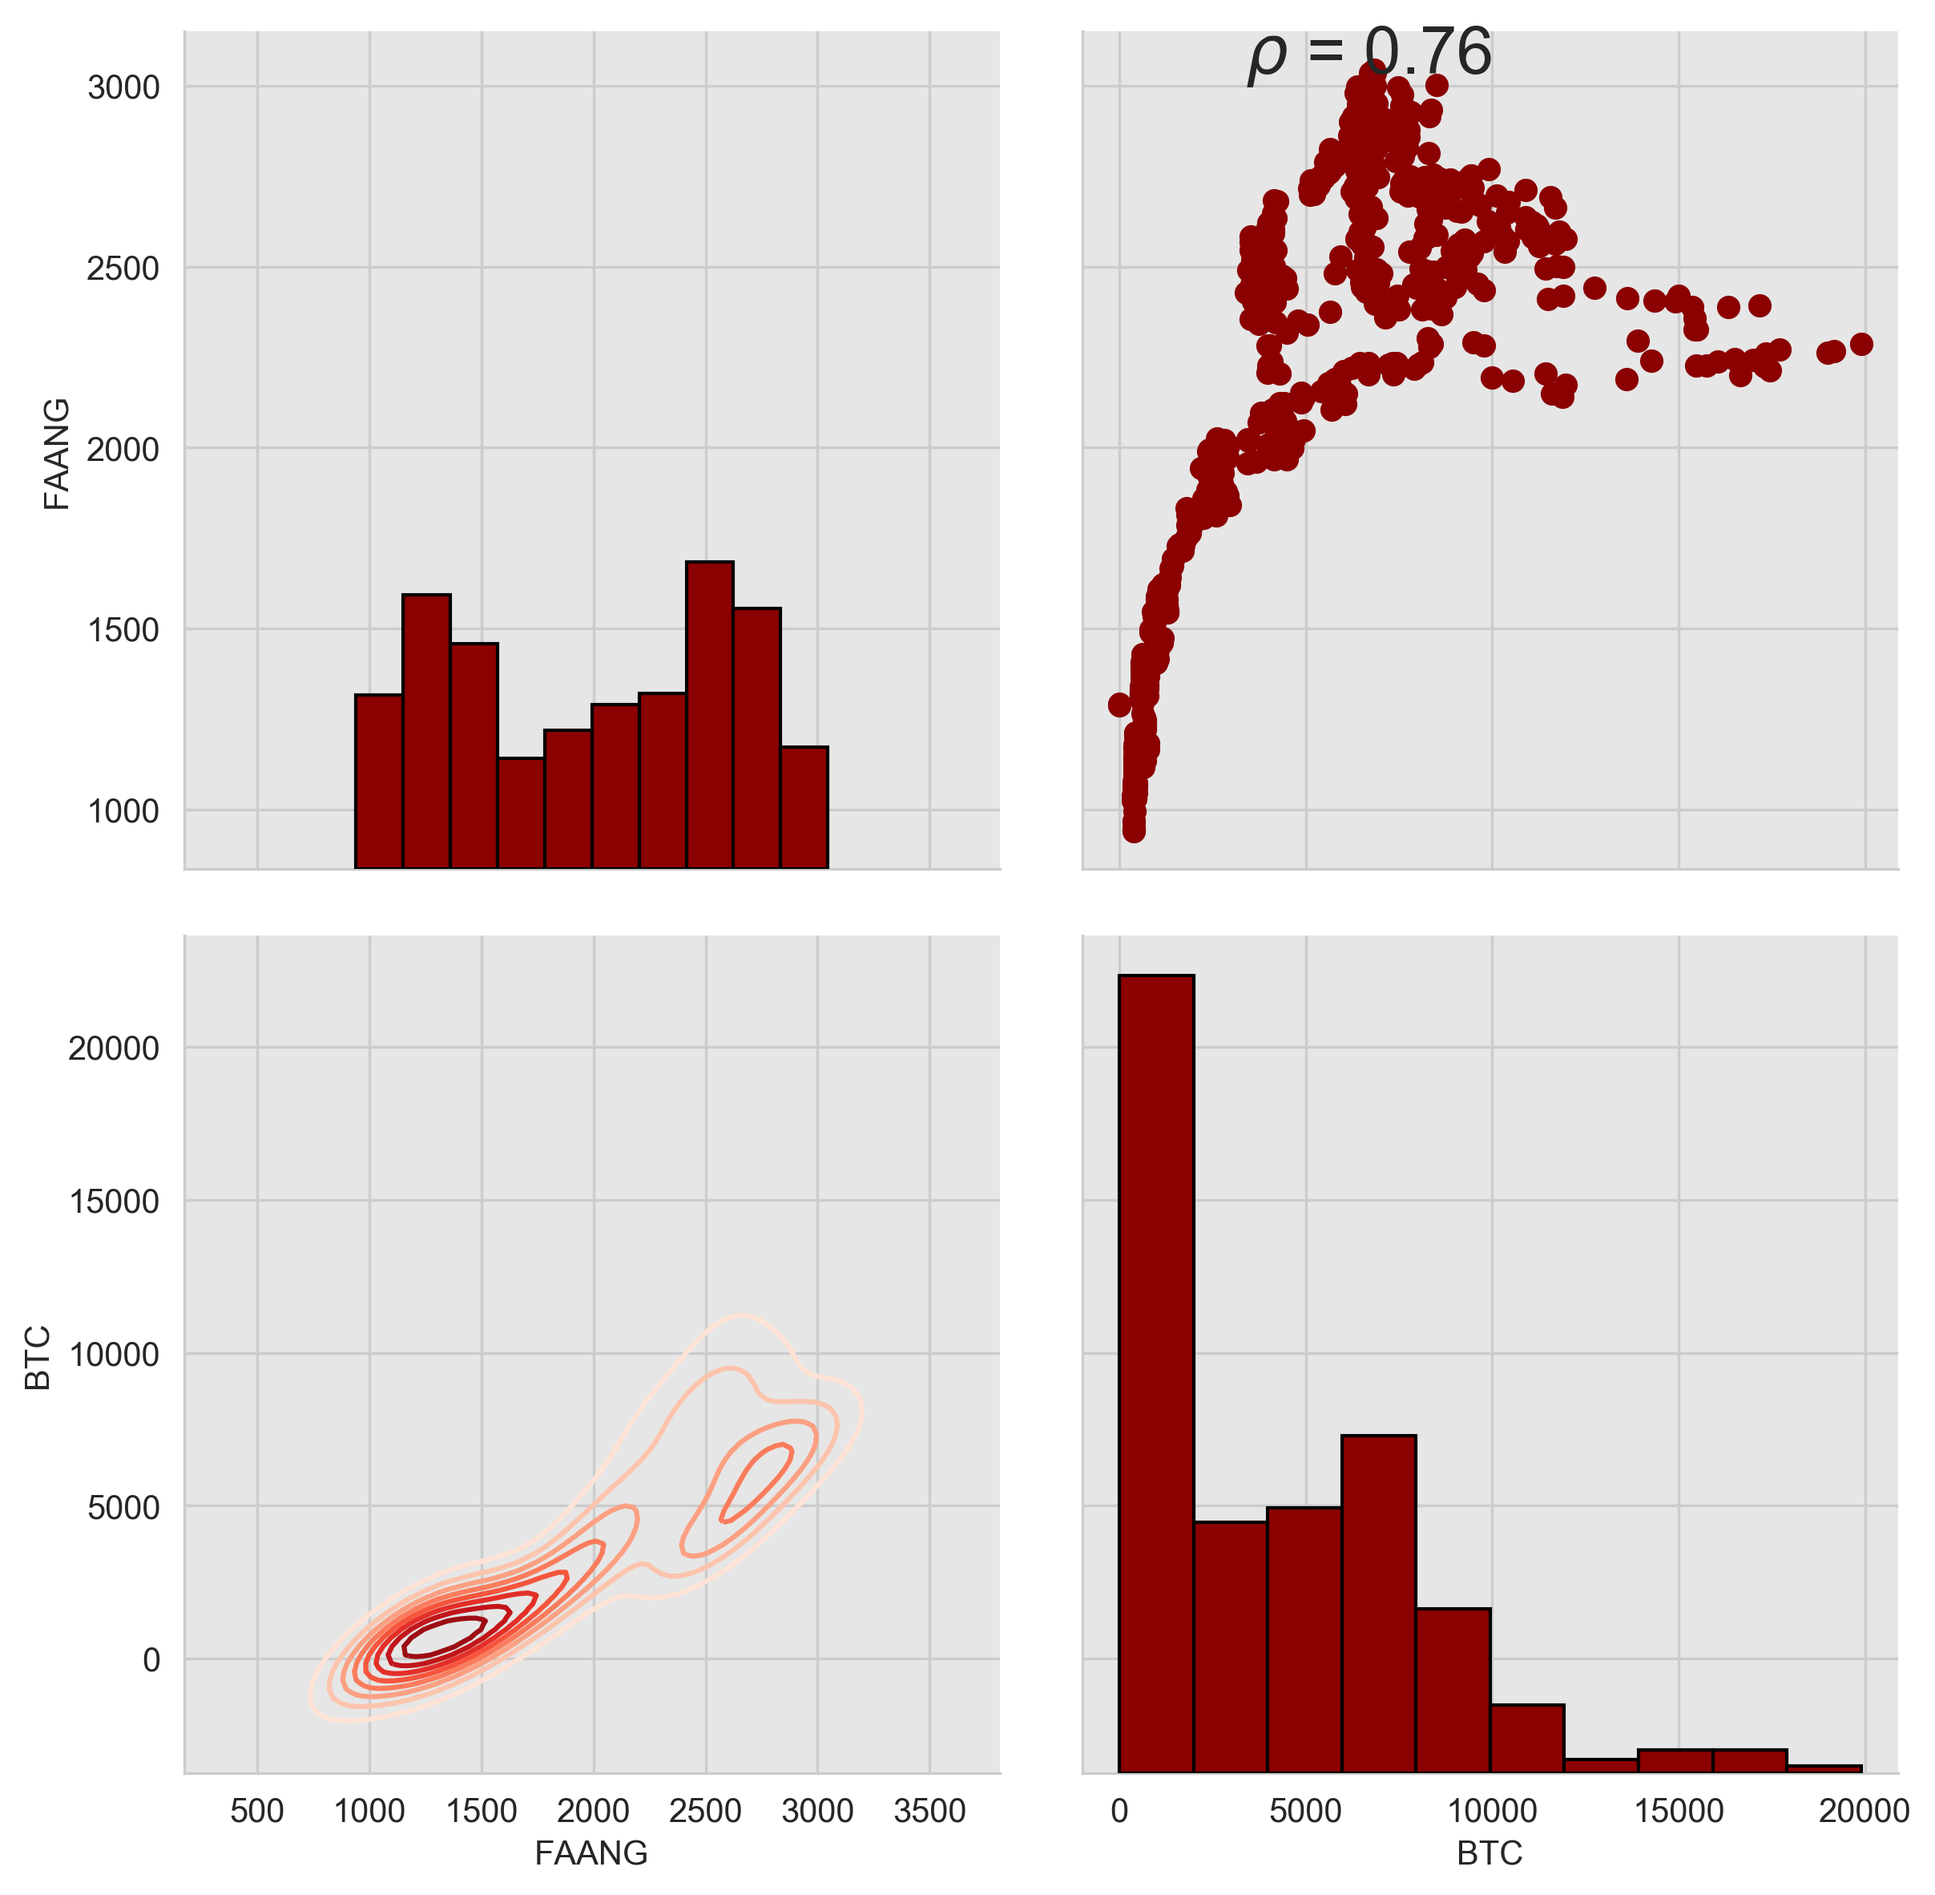
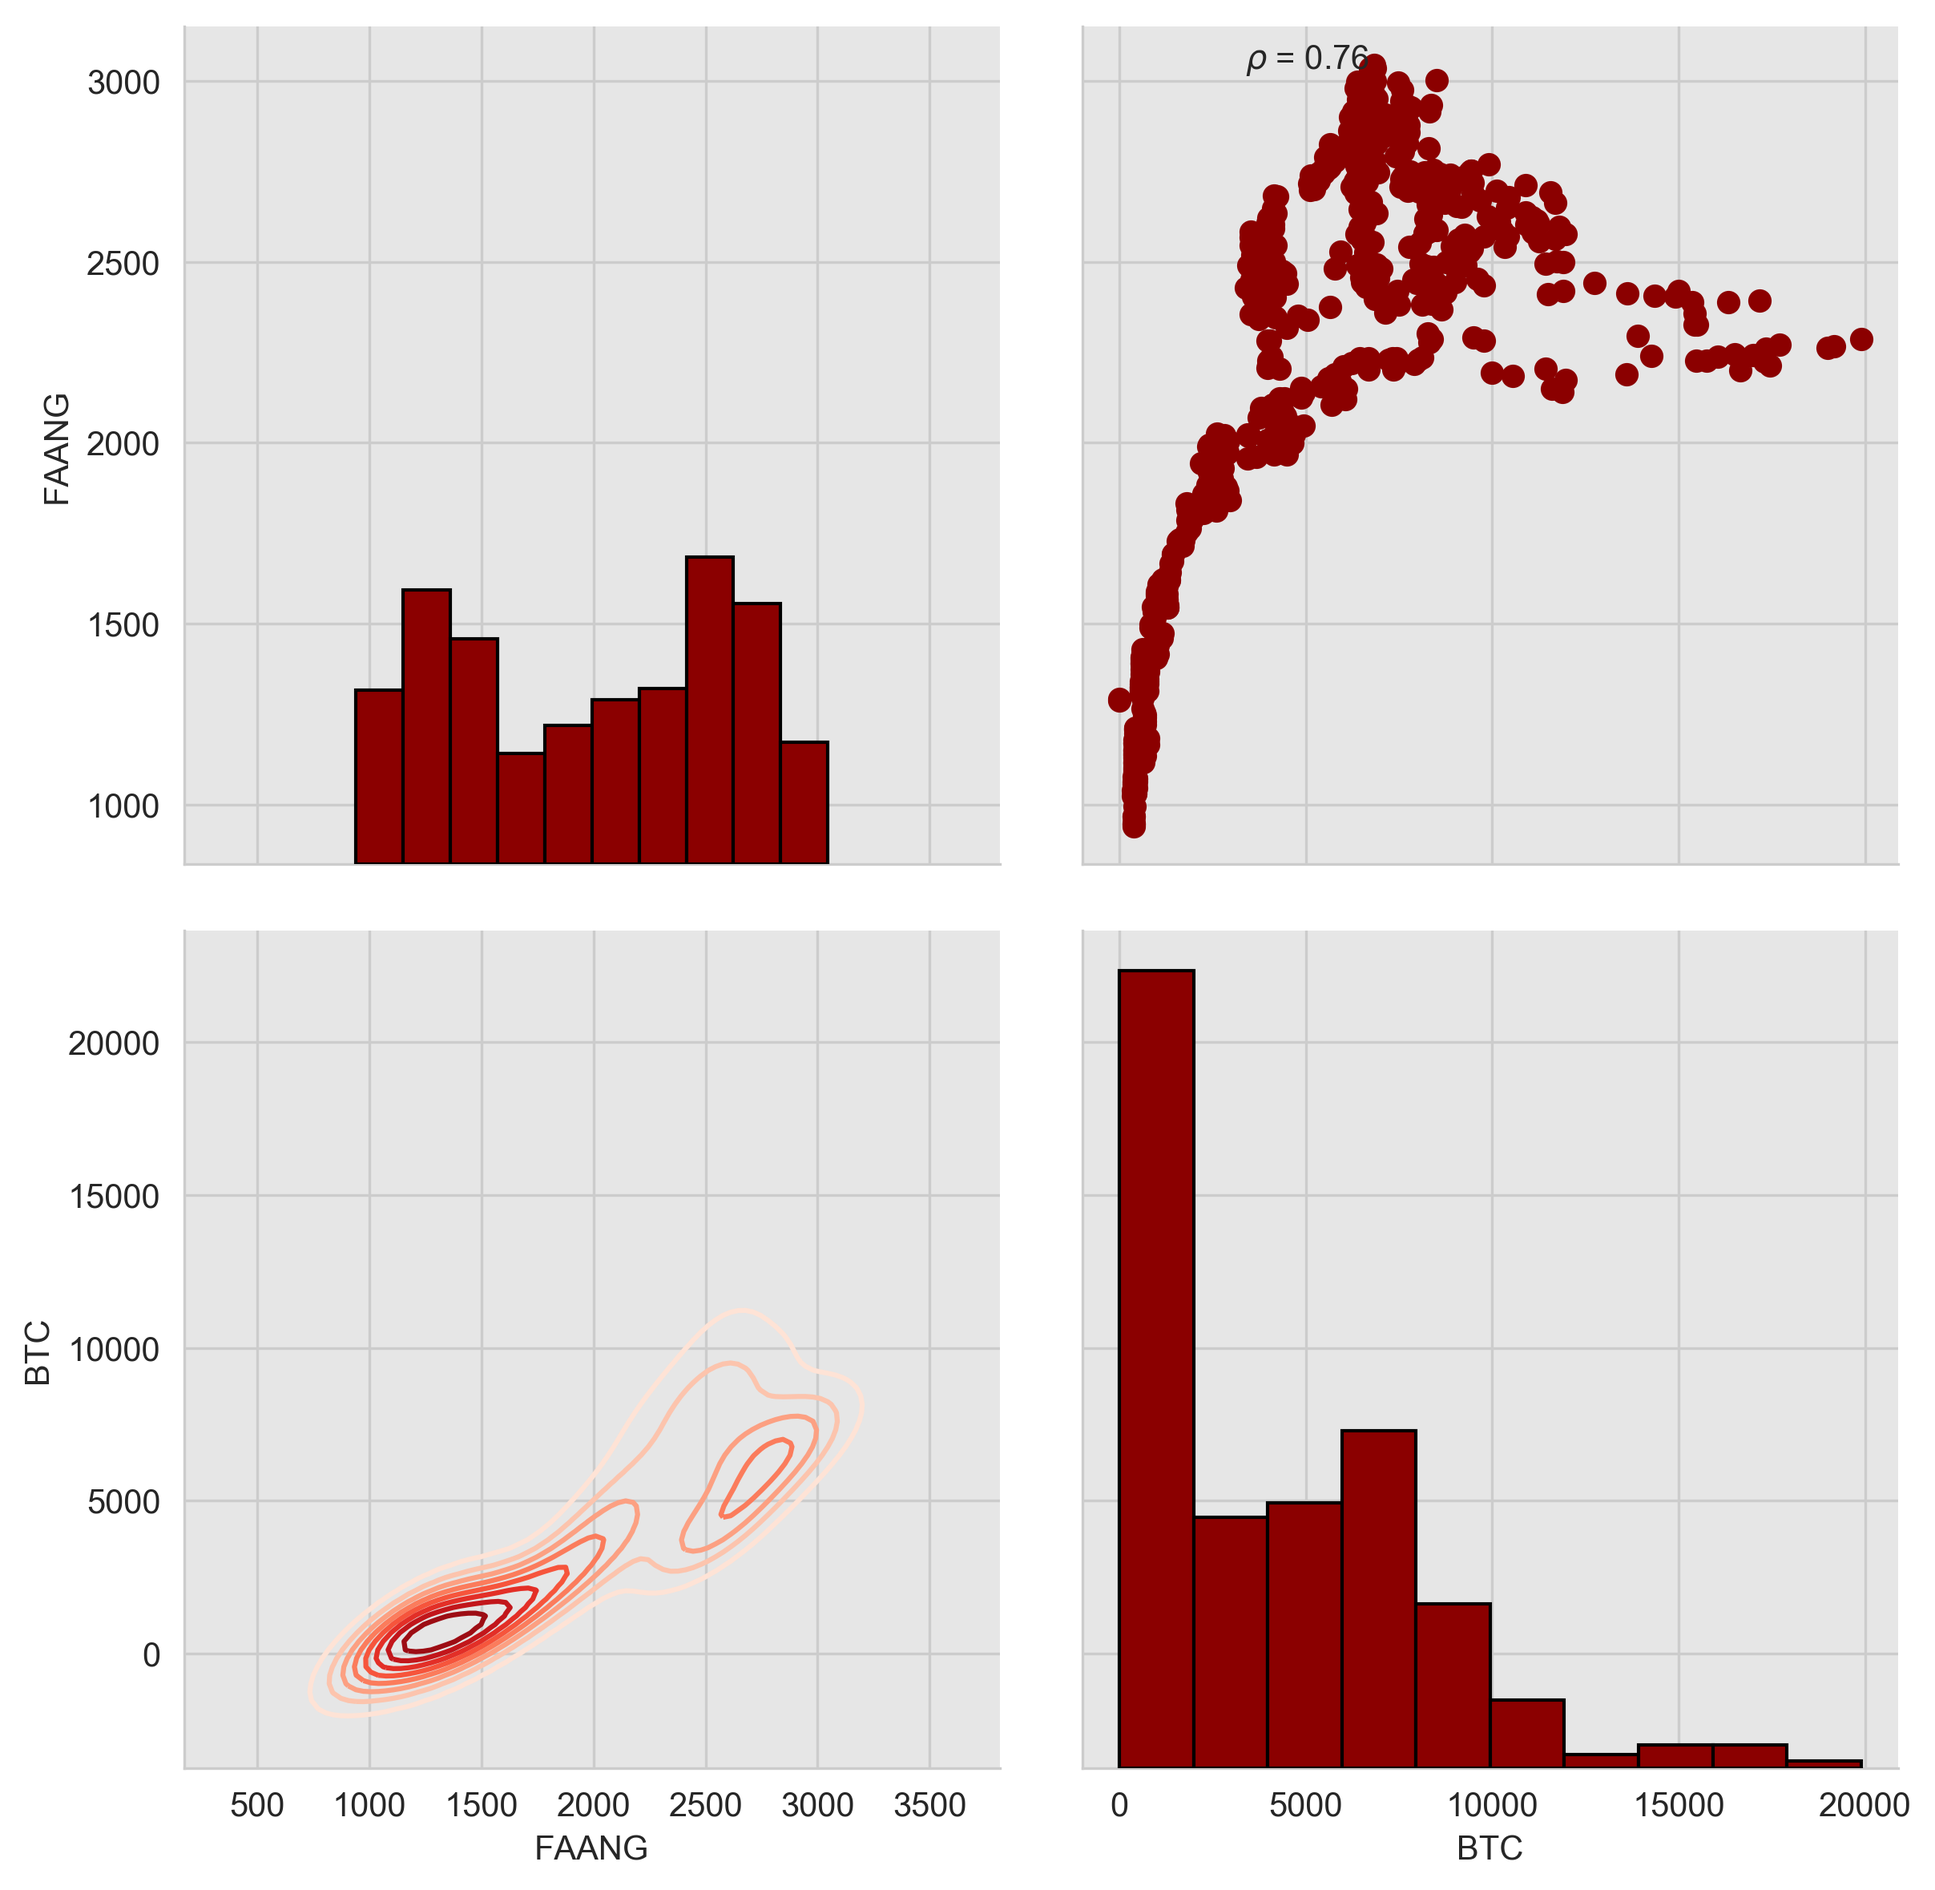
corr plot displaying on sp500 page, cleaned up spindex page, need to save all api calls and convert to csv, sp500 and faang look identical press f

diff --git a/templates/faang.html b/templates/faang.html
@@ -2,11 +2,11 @@
 {% block content %}
 
 <img id="faang" , src="/static/faang_btc.png" alt="faang">
+<img id="faangcorco" , src="/static/faangcorco.png" alt="faangcorco" />
 <p>January, 2019 looks like both charts bottomed out and had a nice recovery, but without further investigating we can't
     assume a correlation. Let's break down the math and go from there. </p>
 <img id="faangmath" , src="/static/faangmath.png" alt="faangmath">
 <p>Luckily in programming they do these hard math problems relatively simple for us.</p>
-<img id="faangcorco", src="/static/faangcorco.png" alt="faangcorco"/>
 
 <div class="faang">
     <h1>FAANG</h1>

diff --git a/templates/spindex.html b/templates/spindex.html
@@ -2,6 +2,7 @@
 {% block content %}
 
 <img id="sp500", src="/static/sp500_btc.png" alt="sp500">
+<img id="spincorr", src="/static/spincorr.png" alt="spincorr">
 <div class="spindex">
     <h1>Bitcoin vs S&P500</h1>
     <p>I have chosen to use the S&P500 and explore the correlation between the two variables based upon the data

diff --git a/static/css/main.css b/static/css/main.css
@@ -111,8 +111,13 @@ img[src="/static/faangmath.png"] {
 }
 
 img[src="/static/faangcorco.png"] {
+    width: 50%;
+    height:7 5%;
+}
+
+img[src="/static/spincorr.png"] {
     width:50%;
-    height:75%;
+    height: 75%;
 }
 
 h2 {

diff --git a/spinstats.py b/spinstats.py
@@ -4,21 +4,20 @@ import numpy as np
 import seaborn as sns
 import matplotlib.pyplot as plt
 import pandas as pd
-from app import faang
+from app import spindex
 import os
 import sys
-sys.path.append("path to file")
+sys.path.append("/Users/joeyhill/Desktop/Correlations/spindex.py")
 mpl.rcParams['figure.dpi'] = 300
 sns.set_style('whitegrid', {"axes.facecolor": ".9"})
 
+spdf = pd.read_csv("sp500.csv", index_col='Date', parse_dates=['Date'])
 
-df = pd.read_csv("faangfinal.csv", index_col='Date', parse_dates=['Date'])
+sbtc = pd.read_csv("btcprice.csv", index_col='Date', parse_dates=['Date'])
 
-df1 = pd.read_csv("btcprice.csv", index_col='Date', parse_dates=['Date'])
-
-
-df3 = df.merge(df1, on=['Date'])
-df3.corr(method='pearson')
+spbtc = spdf.merge(sbtc, on=['Date'])
+spbtc.corr(method='pearson')
+spbtc.corr()
 
 
 def corr(x, y, **kwargs):
@@ -29,12 +28,12 @@ def corr(x, y, **kwargs):
     ax.annotate(label, xy=(0.2, 0.95), size=10, xycoords=ax.transAxes)
 
 
-grid = sns.PairGrid(data=df3, vars=['FAANG', 'BTC'], size=4)
+grid = sns.PairGrid(data=spbtc, vars=['Price', 'BTC'], size=4)
 
 grid = grid.map_upper(plt.scatter, color='darkred')
 gird = grid.map_upper(corr)
 grid = grid.map_lower(sns.kdeplot, cmap='Reds')
 grid = grid.map_diag(plt.hist, bins=10, edgecolor='k', color='darkred')
 
-plt.savefig('faangcorco.png', facecolor='w',
+plt.savefig('spincorr.png', facecolor='w',
             edgecolor='w', bbox_inches='tight')

diff --git a/gold_corr.py b/gold_corr.py
@@ -11,18 +11,27 @@ plt.style.use('seaborn-whitegrid')
 quandl.ApiConfig.api_key = config.api_key
 
 gold = quandl.get("WGC/GOLD_DAILY_USD", start_date='2016-01-05')
-btc = quandl.get("BITFINEX/BTCUSD", column_index='1', start_date='2016-01-05')
+
+
+btc = pd.read_csv("btcprice.csv", index_col='Date', parse_dates=['Dates'])
 df1 = pd.DataFrame(data=gold)
 df = pd.DataFrame(data=btc)
 
+#Export gold to csv, clean NaN columns, merge btc and gold
+gbdf = pd.merge
 
-joinedgbtc = pd.concat([df1, df], axis=1)
-joinedgbtc.to_csv('joinedgbtc.csv')
+def corr(x, y, **kwargs):
+    coef = np.corrcoef(x, y)[0][1]
+    label = r'$\rho$ = ' + str(round(coef, 2))
+
+    ax = plt.gca()
+    ax.annotate(label, xy=(0.2, 0.95), size=10, xycoords=ax.transAxes)
 
 
-def btcgcor():
-    df2 = pd.read_csv('joinedgbtc.csv')
-    df2['btc'].plot()
-    #df2_corr = df2.corr()
+grid = sns.PairGrid(data=df, vars=['GOLD', 'BTC'], size=4)
 
-# joinedgbtc()
+grid = grid.map_upper(plt.scatter, color='darkred')
+gird = grid.map_upper(corr)
+grid = grid.map_lower(sns.kdeplot, cmap='Reds')
+grid = grid.map_diag(plt.hist, bins=10, edgecolor='k', color='darkred')
+
